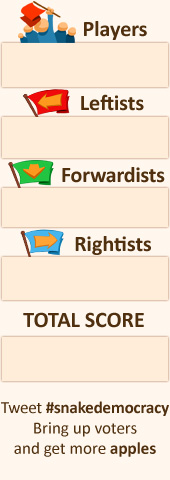
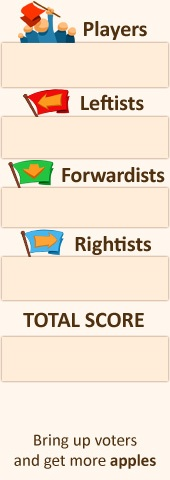
Tweak vitory screens + real apple button

diff --git a/client.js b/client.js
@@ -43,6 +43,7 @@ var g_test = null;
 var g_clientState = null;
 var g_lastTime = null;
 var g_lastVoteMove = 0;
+var g_pauseStartTime = null;
 
 // assets
 var g_headPaths =
@@ -198,8 +199,8 @@ function init(_test)
 {
     g_test = _test;
     
-    setClientState("active")
-
+    setClientState("active");
+    
     // get canvas element
     g_canvas =  document.getElementById("canvas");
     if (!g_canvas)
@@ -252,7 +253,7 @@ function init(_test)
     g_context.fillStyle = "#000000";
     g_context.fillText(
         "Loading ballot paper... please be patient, citizen.",
-        150, 240);
+        10, 15);
     
     // queue assets, download them, then connect socket
     g_assets = new AssetManager();
@@ -264,12 +265,16 @@ function connect()
 {
     log("Connecting...");
 
-    g_context.fillStyle = "#FFFFFF";
-    g_context.fillRect(0, 0, CANVAS_WIDTH, CANVAS_HEIGHT);
+    // draw grid, now that it's loaded
+    g_context.drawImage(
+        g_assets.cache[g_fullgridPath],
+        0, 0,
+        CANVAS_WIDTH, CANVAS_HEIGHT);
+
     g_context.fillStyle = "#000000";
     g_context.fillText(
         "Connecting to polling station... please remain patient, citizen.",
-        150, 240);
+        10, 15);
 
     // connect to node.js server
     g_socket = io.connect(g_test ? SERVER_TEST_ADDRESS : SERVER_ADDRESS);
@@ -414,11 +419,11 @@ function update()
     // plan next update
     requestAnimFrame(update);
 
-    // yey! back with us
+    // yey! back with us, default to spectator
     if (g_clientState == "idle")
     {
         setClientState("spectator");
-        return; // TODO: wait for backping before updating, just skip one frame for now
+        return;
     }
     
     var time = new Date().getTime();
@@ -770,18 +775,49 @@ function update()
     // draw end game overlay
     if (g_state.name == "victory")
     {
+        // img
         g_context.drawImage(
             g_assets.cache[g_victoryPath],
             0, 0, CANVAS_WIDTH, CANVAS_HEIGHT);
-        // TODO: draw score
-        // TODO: draw countdown
+        
+        // draw score
+        var bkpFont = g_context.font;
+        var bkpAlign = g_context.textAlign;
+        g_context.font = "30pt Arial Bold";
+        g_context.textAlign = "center";
+        g_context.fillStyle = "#000000";
+        g_context.fillText(g_score, 240, 285);
+        g_context.font = bkpFont;
+        g_context.textAlign = bkpAlign;
+        
+        // draw countdown
+        var message = "Starting a new game soon...";
+        if (g_pauseStartTime)
+        {
+            var dt = g_lastTime - g_pauseStartTime;
+            var countdown = VICTORY_DELAY - dt;
+            message = "Restarting game in " + Math.floor(countdown/1000) + " seconds...";
+        }
+        g_context.fillStyle = "#000000";
+        g_context.fillText(message, 10, 15);
     }
     else if (g_state.name == "fail")
     {
+        // img
         g_context.drawImage(
             g_assets.cache[g_failPath],
             0, 0, CANVAS_WIDTH, CANVAS_HEIGHT);
-        // TODO: draw countdown
+        
+        // draw countdown
+        var message = "Your fellow citizens failed but the game will restart soon...";
+        if (g_pauseStartTime)
+        {
+            var dt = g_lastTime - g_pauseStartTime;
+            var countdown = FAIL_DELAY - dt;
+            message = "Restarting game in " + Math.floor(countdown/1000) + " seconds...";
+        }
+        g_context.fillStyle = "#000000";
+        g_context.fillText(message, 10, 15);
     }
 
     // reset input
@@ -1047,6 +1083,7 @@ function processMessage(_message)
         g_move = 0;
         g_votesThisMove = 0;
         g_lastVoteMove = 0;
+        g_pauseStartTime = new Date().getTime();
     }
     else if (_message.name == "victory")
     {
@@ -1054,6 +1091,7 @@ function processMessage(_message)
         g_move = 0;
         g_votesThisMove = 0;
         g_lastVoteMove = 0;
+        g_pauseStartTime = new Date().getTime();
     }
     else if (_message.name == "playing")
     {

diff --git a/server.js b/server.js
@@ -42,15 +42,16 @@ var g_direction = null;
 var g_state = null;
 var g_turn = 0;
 var g_move = 0;
-var g_moveDelay = 2000;
-var g_failDelay = 7000;
-var g_victoryDelay = 15000;
+var g_moveDelay = MOVE_DELAY;
+var g_failDelay = FAIL_DELAY;
+var g_victoryDelay = VICTORY_DELAY;
 var g_pendingGrow = false;
 var g_moveTimeoutHandle = null;
 var g_pauseTimeoutHandle = null;
 var g_opinionTimeoutHandle = null;
 var g_snakeLengthCache = -1;
-var g_playerCountCache = null;
+var g_activePlayerCount = 0;
+var g_spectatorCount = 0;
 var g_tweets = 0;
 var g_test = (process.env.NODE_ENV == "development");//(process.argv.length==5) && (process.argv[4]=="test");
 
@@ -149,9 +150,11 @@ console.vlog = function()
 
     var newArgs = new Array();
     newArgs.push(
-        "SD [rss:" + rss + "MB|" +
-        "heap:" + heapUsed + "/" + heapTotal + "MB|" +
-        "s:" + g_sockets.length + "]"
+        "SD [rss:" + rss + "MB|" +                      // rss
+        "heap:" + heapUsed + "/" + heapTotal + "MB|" +  // heap
+        "a:" + g_activePlayerCount + "|"                // active
+        "s:" + g_spectatorCount + "|"                   // spectators
+        "t:" + g_sockets.length + "]"                   // total
         );
     for (var i=0; i<arguments.length; ++i)
     {
@@ -378,10 +381,9 @@ function planNextMove()
         g_moveTimeoutHandle = setTimeout(move, g_moveDelay);
     }
 
-    var activePlayerCount = 0;
-    var playerCOunt = g_sockets.length;
-    
-    // clear vote counts + detect spectators
+    // clear vote counts + detect spectators + coutn active players
+    g_activePlayerCount = 0;
+    g_spectatorCount = 0;
     for (var i=0; i<g_sockets.length; i++)
     {
         var s = g_sockets[i];
@@ -394,17 +396,10 @@ function planNextMove()
             setClientState(s, "spectator");
         }
         
-        // count active players
-        if (s.clientState == "active")
-        {
-            ++activePlayerCount;
-        }
+        // count active players & spectators
+        if (s.clientState == "active") ++g_activePlayerCount;
+        else if (s.clientState == "spectator") ++g_spectatorCount;
     }
-
-    // player counter:
-    // - active clients in big letters
-    // - spectators + idle clients in small letters
-    g_playerCountCache = activePlayerCount + " <small>/ " + playerCOunt + "</small>";
 }
 
 function clearPauseTimeout()
@@ -881,7 +876,10 @@ function computeScore()
 function broadcast(_message)
 {
     // any time a message is broadcasted, append the number of players...
-    _message.playerCount = g_playerCountCache;
+    // - active clients in big letters
+    // - spectators + idle clients in small letters
+    var text = activePlayerCount + " <small>/ " + playerCount + "</small>";
+    _message.playerCount = text;
 
     // and the current score
     _message.score = computeScore();

diff --git a/index.html b/index.html
@@ -45,11 +45,24 @@
                   <div class="digits" id="numRight">&#x2014;</div>
                   <div class="filler" id="stats-8">&nbsp;</div>
                   <div class="digits" id="score">&#x2014;</div>
-                  <!--<p id="playerCount">0 player :(</p>
-                  <p id="numLeft">0 left</p>
-                  <p id="numForward">0 forward</p>
-                  <p id="numRight">0 right</p>
-                  <p id="score">score</p>-->
+
+                  <!-- apples widget -->
+                  <div id="twitterApples">
+                    <a href="https://twitter.com/intent/tweet?button_hashtag=snakedemocracy&text=Give%20me%20an%20apple!" class="twitter-hashtag-button" data-size="small" data-related="snakedemocracy" data-url="http://www.snakedemocracy.com">Tweet #snakedemocracy</a>
+                    <script>
+                    !function(d,s,id){
+                        var js,
+                            fjs=d.getElementsByTagName(s)[0];
+                        if(!d.getElementById(id)){
+                            js=d.createElement(s);
+                            js.id=id;
+                            js.src="http://platform.twitter.com/widgets.js";
+                            fjs.parentNode.insertBefore(js,fjs);
+                        }
+                    }(document,"script","twitter-wjs");
+                    </script>
+                  </div>
+                  
                 </div>
                 <div id="canvas-box">
                   <canvas id="canvas" width="480" height="480">

diff --git a/cheat.html b/cheat.html
@@ -36,8 +36,8 @@
     </p>
     <p>
       move delay: <input id="moveDelay" type="text" value="2000"><input type="button" value="send" onclick="submitMoveDelay()"/><br/>
-      fail delay: <input id="failDelay" type="text" value="7000"><input type="button" value="send" onclick="submitFailDelay()"/><br/>
-      victory delay: <input id="victoryDelay" type="text" value="14000"><input type="button" value="send" onclick="submitVictoryDelay()"/><br/>
+      fail delay: <input id="failDelay" type="text" value="10000"><input type="button" value="send" onclick="submitFailDelay()"/><br/>
+      victory delay: <input id="victoryDelay" type="text" value="30000"><input type="button" value="send" onclick="submitVictoryDelay()"/><br/>
     </p>
     <p>
       player count: <span class="digits" id="playerCount">&#x2014;</span><br/>

diff --git a/common.js b/common.js
@@ -1,3 +1,6 @@
 var AREA_SIZE = 20;
 var MAX_VOTES_PER_MOVE = 10;
 var SPECTATOR_THRESHOLD = 5; // in snake moves
+var MOVE_DELAY = 2000;
+var FAIL_DELAY = 10000;
+var VICTORY_DELAY = 30000;

diff --git a/files/beauty_style.css b/files/beauty_style.css
@@ -219,3 +219,9 @@ div.digits
 	font:arial,sans-serif;
 	color:#a5653a;
 }
+
+#twitterApples
+{
+    margin-left: 4px;
+    margin-top: 30px;
+}
